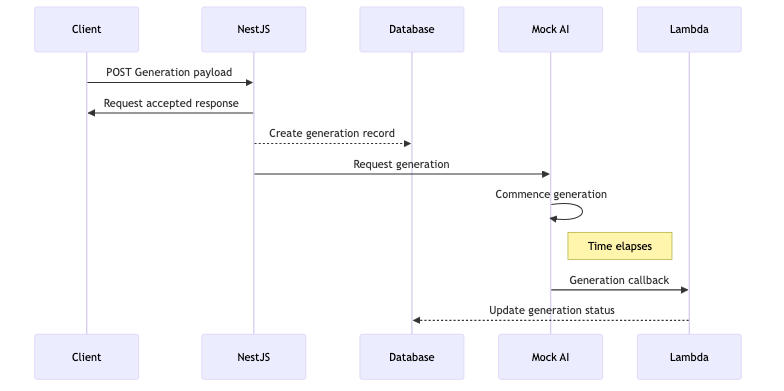
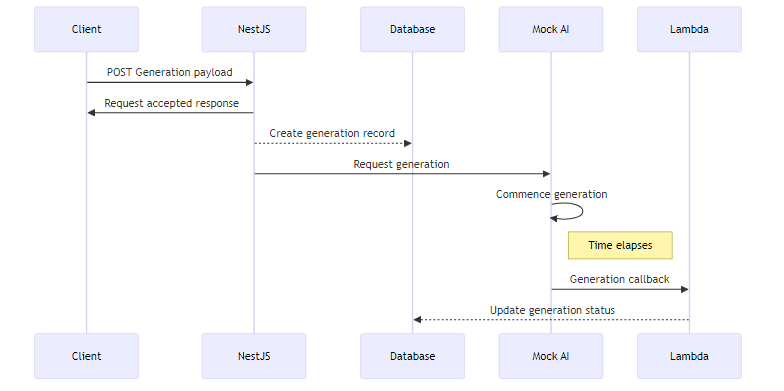
chore: Update image asset for project overview

diff --git a/docs/task3.md b/docs/task3.md
@@ -1,0 +1,89 @@
+# Task 3: Image Generation Job Flow
+
+## 1. Front-end Request
+
+The front-end sends a POST request to initiate an image generation job.
+
+**Request:**
+```
+POST /api/generate
+Authorization: Bearer <jwt>
+Content-Type: application/json
+```
+
+**Request Body:**
+```json
+{
+  "prompt": "A beautiful sunset over a calm ocean",
+  "notifyChannel": "auto"
+}
+```
+
+**Note:** `notifyChannel` can be either `WS`, `push`, or `auto`.
+
+**Response:**
+```json
+{
+  "jobId": "some_job_id_123jdf123",
+  "generationStatus": "PENDING"
+}
+```
+
+## 2. Backend Processing
+
+When the backend receives the processed image, it's sent to:
+- **SNS service** (Simple Notification Service)
+- **SQS** (Simple Queue Service)
+
+The SQS queue can be configured with a configurable number of retries before messages are moved to a Dead Letter Queue (DLQ).
+
+## 3. Lambda SQS Handler
+
+The Lambda function reads from SQS and determines the notification channel (`push` or `WS`).
+
+**Process Flow:**
+1. The application uses Redis heartbeat pattern to check if the user is online or offline
+2. Data is persisted to the database
+3. The queue message is consumed
+4. User notification is sent:
+   - **If user is online:** Notified via WebSocket (WS)
+   - **If user is offline:** Sent back to SNS, which delivers via FCM/APNs/WebPush
+
+**Lambda Event Payload:**
+```json
+{
+  "event": "job.completed",
+  "jobId": "some_job_id_123jdf123",
+  "userId": "some_user",
+  "generationStatus": "COMPLETE",
+  "imageUrl": "http://image-url/<generationId>"
+}
+```
+
+## 4. Front-end Event Reception
+
+The front-end receives the event notification.
+
+**WebSocket Event:**
+```json
+{
+  "type": "job.update",
+  "jobId": "job_01HXYZ123",
+  "generationStatus": "COMPLETE",
+  "imageUrl": "http://image-url/<generationId>"
+}
+```
+
+## Technology Stack
+
+*Main reason for AWS is the ease of integration*
+
+| Technology | Why |
+|------------|-----|
+| Amazon Cloudwatch | Easy AWS logging service |
+| Amazon SNS | Make sure disconnected users receive push notification on mobile or browser |
+| Amazon SQS | Buffer. Here we make sure no messages will be lost and we can retry by using dead letter queue |
+| Redis | Easy way to check if user is online (heartbeat pattern) |
+| LambdaWrapper (NestJS) | Cost efficiency, scalability and flexibility - WS |
+| Postgres | API database |
+
